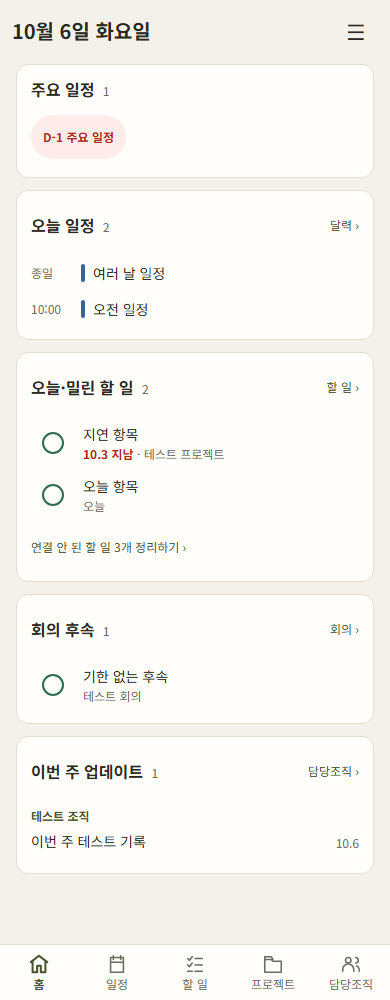
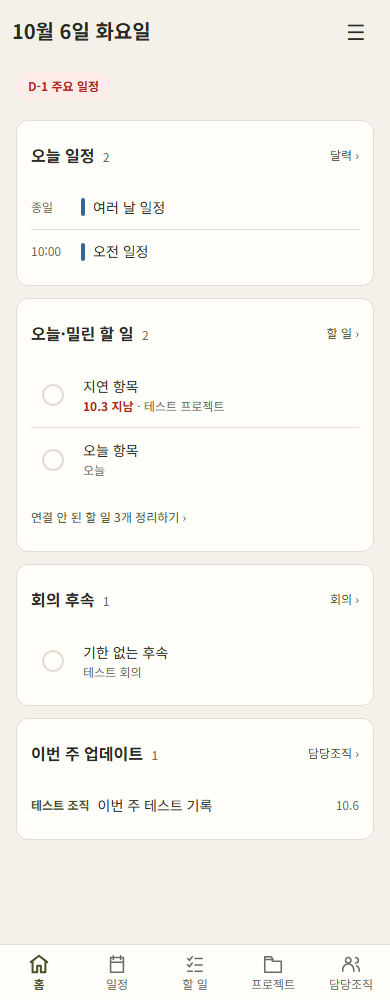
fix(app): match the supplied mobile home reference

diff --git a/app/home-read.css b/app/home-read.css
@@ -194,6 +194,58 @@
   align-self: center;
 }
 @media (max-width: 760px) {
+  [data-home-card="dday"] {
+    background: transparent;
+    border: 0;
+    padding: 0;
+  }
+  [data-home-card="dday"] header {
+    position: absolute;
+    width: 1px;
+    height: 1px;
+    overflow: hidden;
+    clip-path: inset(50%);
+    white-space: nowrap;
+  }
+  .home-chips { padding: 0; }
+  .home-chip {
+    position: relative;
+    isolation: isolate;
+    background: transparent;
+  }
+  .home-chip::before {
+    content: "";
+    position: absolute;
+    inset: 8px 0;
+    z-index: -1;
+    background: var(--kptu-primary-soft);
+    border-radius: var(--kptu-radius-pill);
+  }
+  .home-chip.urgent { background: transparent; }
+  .home-chip.urgent::before { background: var(--kptu-danger-soft); }
+  .home-event { min-height: 44px; }
+  .home-task { min-height: 64px; }
+  .home-event + .home-event,
+  .home-task + .home-task,
+  .home-update + .home-update { border-top: 1px solid var(--kptu-border); }
+  .home-task .gt-check::before { border-color: var(--kptu-border); }
+  .home-task.completed .gt-check::before { border-color: var(--kptu-success); }
+  .home-update {
+    display: flex;
+    align-items: center;
+    gap: 8px;
+    min-height: 44px;
+  }
+  .home-update strong {
+    max-width: 40%;
+    overflow: hidden;
+    white-space: nowrap;
+    text-overflow: ellipsis;
+    flex: 0 1 auto;
+    line-height: 1.5;
+  }
+  .home-update .home-title { flex: 1; }
+  .home-update time { flex: 0 0 auto; }
   #homeView {
     margin-left: 0;
     margin-right: 0;

diff --git a/app/index.html b/app/index.html
@@ -18,11 +18,11 @@
 <link rel="preload" as="style" href="./workspace-ui.css?v=10">
 <link rel="preload" as="style" href="./desktop-ui.css?v=11">
 <link rel="preload" as="style" href="./desktop-tight-nav.css?v=2">
-<link rel="modulepreload" href="./loader-v2.js?v=297">
+<link rel="modulepreload" href="./loader-v2.js?v=298">
 <link rel="modulepreload" href="./runtime-client.js?v=7">
 <link rel="modulepreload" href="./native-auth-bridge.js?v=5">
 <link rel="modulepreload" href="./calendar-return-bridge.js?v=3">
-<script src="./app.js?v=185" defer></script>
+<script src="./app.js?v=186" defer></script>
 </head>
 <body class="kptu-session-pending">
 <div class="shell">

diff --git a/app/app.js b/app/app.js
@@ -65,7 +65,7 @@
     window.dispatchEvent(new Event('kptu:app-ui-ready'));
     maybeDebugButton();
   };
-  import('./loader-v2.js?v=297').catch(err=>{
+  import('./loader-v2.js?v=298').catch(err=>{
     console.error(err);startup.finalize('error');window.__KPTU_MARK_APP_UI_READY__?.();
     document.body.insertAdjacentHTML('beforeend','<pre style="padding:16px;color:var(--kptu-danger)">앱 초기화 오류: '+String(err.message||err)+'</pre>');
   });

diff --git a/app/loader-v2.js b/app/loader-v2.js
@@ -134,7 +134,7 @@
     box.textContent='이 기능을 불러오지 못했습니다. 네트워크를 확인한 뒤 새로고침해 주세요.';
   };
 
-  await import('./view-loader.js?v=69');
+  await import('./view-loader.js?v=70');
   const viewLoader=window.KPTUViewLoader;
   const params=new URLSearchParams(location.search);
   const rawRequested=params.get('view')||(params.get('project')?'projects':'home');

diff --git a/app/view-loader.js b/app/view-loader.js
@@ -20,7 +20,7 @@ function style(path){
   return flight
 }
 const routeStyles={
-  home:['./home-read.css?v=1','./google-tasks.css?v=19'],
+  home:['./home-read.css?v=2','./google-tasks.css?v=19'],
   calendar:['./calendar-ui.css?v=17'],
   tasks:['./task-layout.css?v=4','./google-tasks.css?v=19'],
   projects:['./project-system-v3.css?v=23','./forum-flow-polish.css?v=2','./google-tasks.css?v=19'],

diff --git a/docs/design-decisions.md b/docs/design-decisions.md
@@ -197,3 +197,5 @@
 - surface 상자·border·모서리 12px·안쪽 12/14px·제목 16px·개수 12px muted·칸 간격 12px·홈 좌우 16px. 날짜·메뉴 먼저 공개, 칸별 로딩·빈 목록·미연결·실패(다시 시도)를 분리한다. Google 목록·연결·프로젝트·조직 조회는 공유, 기기 사본은 첫 표시만 쓰고 최신 응답으로 교체한다.
 - 기본 /app/는 홈, 일정은 ?view=calendar. 명시적 view·project·로그인 복귀·새 버전 새로고침 주소는 보존한다. project가 남아 있으면 홈 이동 시 view=home을 명시해 새로고침 뒤 프로젝트로 되돌아가지 않게 한다. native-back-guard와 Android 마지막 복귀는 홈으로 일치한다.
 - 760px 이하 홈 외 머리줄은 현재 화면 이름 16px 굵게, 홈 날짜는 20px. 메뉴 머리는 메뉴 16px 굵게 + ×(보이는 32px·누르는 44px). 761px 이상 재배치는 D-5 범위로 유지한다.
+
+- 2026-10-06 사용자가 첨부한 홈 사진 대조: 760px 이하 D-day는 상자 밖 작은 칩 줄(누르는 높이44px·바탕28px), 일정/할 일/회의 후속 행 사이 border 구분선, 미완료 원은 border 색, 업데이트는 조직명·내용·날짜 한 줄. 사진의 빠른 입력은 ③까지 비우며 하단 탭은 ① 확정 구성을 유지한다. 761px 이상은 이번 대조 조정에서 바꾸지 않는다.
